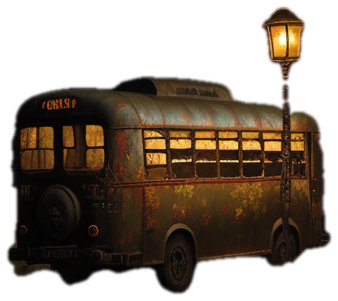
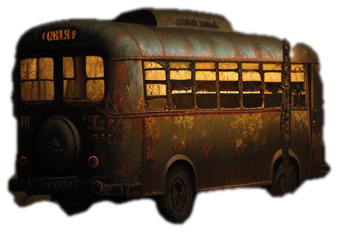
P4-17: town view — painted buildings you hover and click, DD hamlet style
Each hub service is a cut-out painting placed in data/town.json; hovering outlines and
names it, a click opens its window (Pulpería, Terminal, Iglesia, Cantina, Clínica,
Casa Comunal, Taller). Roster and alforja on the right, bottom bar with colones,
region, difficulty and the start button. Closed buildings go grey.

Claude-Session: https://claude.ai/code/session_01Cq1nnfCsSoxUJverGyPeCM

diff --git a/tools/sd_cutout.py b/tools/sd_cutout.py
@@ -30,6 +30,8 @@ ROOT = Path(__file__).resolve().parent.parent
 MANIFEST = ROOT / "tools" / "art_manifest.json"
 MODEL = "openmmlab/upernet-convnext-small"
 MARGIN = 6
+## Pixels shaved off and grown back on the mask: removes thin strays (wires, stray lines).
+OPEN = 5
 ## ADE20K labels that are background in a town picture.
 DROP = {
     "sky", "floor", "road", "grass", "earth", "ground", "mountain", "field", "sand", "sidewalk",
@@ -60,13 +62,13 @@ def cut(im, proc, model):
     labels = model.config.id2label
     drop_ids = [i for i, name in labels.items() if any(d == part.strip() for part in name.split(",") for d in DROP)]
     keep = ~np.isin(seg, drop_ids)
+    keep = ndimage.binary_opening(keep, iterations=OPEN)
     # The biggest piece only (stray bits of other houses go), with its holes filled.
     lab, n = ndimage.label(keep)
     if n > 0:
         sizes = ndimage.sum(keep, lab, range(1, n + 1))
         keep = lab == (int(np.argmax(sizes)) + 1)
     keep = ndimage.binary_fill_holes(keep)
-    keep = ndimage.binary_opening(keep, iterations=2)
     mask = Image.fromarray((keep * 255).astype("uint8")).filter(ImageFilter.GaussianBlur(1.2))
     rgba = im.convert("RGBA")
     rgba.putalpha(mask)

diff --git a/docs/HANDOFF.md b/docs/HANDOFF.md
@@ -17,6 +17,37 @@ Newest entry first. Every agent session ends by adding an entry here (rules: [..
 
 ---
 
+## 2026-11-17 (13) — P4-17 — Town view: clickable buildings, Darkest Dungeon style
+- **Agent / branch:** Claude Code (cloud) / `claude/p3-03-followup-48gkar`
+- **Status after session:** P4-17 `review` (owner to look at the screenshots / play the hub).
+- **Changed:**
+  - `hacienda_hub.tscn`: rebuilt. Painted town (`Town`), top-left banner (week, town event), roster and alforja on the right, bottom bar (colones, region, difficulty, Pura Vida, start, quit), and a building window (`Building`) with one page per building.
+  - `hacienda_hub.gd`: new node paths; `_build_town` / `_layout_town` / `_refresh_town`, `open_building` / `close_building` (Esc closes), `_refresh_who` (hero strip on the per-hero pages).
+    - Iglesia and Cantina are separate pages (`_relief_boxes`).
+    - The Clínica page lists every hero (`_refresh_clinic_page`).
+    - Roster rows are two lines.
+  - `town_building.gd` (new): picture with alpha hit-test, hover outline shader, name plate, grey when closed.
+  - `data/town.json` (new): positions, texts, `closed_by` / `note_by`; checked by `validate_data.py`.
+  - Art: `assets/town/` (7 buildings + `town_bg`), new manifest entries.
+  - `tools/sd_cutout.py` (new): UperNet scene parsing, built into transformers. BiRefNet was dropped because it needs `trust_remote_code`.
+  - Tests updated (`test_ui` "Town view", `test_hub_activities`, `test_quirks`); `tools/screens/town_screenshot.gd` (new); `clinic_screenshot.gd` adapted.
+  - `docs/02` §1 town view; `AGENTS.md` UI note.
+- **Verified:**
+  - `validate_data.py`: 0 errors.
+  - Smoke test and all 19 tests: 0 failures (`test_ui` 3 runs in a row).
+  - Screenshots: town, hover, and the 7 windows.
+- **Not verified / risks:**
+  - Not played by hand in a window.
+  - The art is SD output: the terminal bus lost its lamppost in the cutout, and the Taller keeps a dark edge on its right.
+  - Feria Nocturna, Guardabosques and Mejoras have no building (not built yet).
+  - Other `tools/screens/*` hub tools (relief, skills, tooltip) still run but were made for the old two-column layout.
+- **Decisions needed:**
+  - The EBAIS stays a button on each roster row rather than a building. OK?
+  - The Taller is where heroes are equipped (no upgrades exist yet). OK?
+- **Next step:** owner review of P4-17. Otherwise P5-07 (see entry 11).
+
+---
+
 ## 2026-11-17 (12) — P4-16 — Skill tooltips stay up during a fight
 - **Agent / branch:** Claude Code (cloud) / `claude/p3-03-followup-48gkar`
 - **Status after session:** P4-16 done. P4-17 (town view) claimed, `in-progress`.

diff --git a/AGENTS.md b/AGENTS.md
@@ -83,6 +83,7 @@ Do this before you stop for **any** reason: task finished, context running out, 
   - Hero cards: `scripts/ui/hero_card.gd`.
   - A button with a card on hover: `scripts/ui/card_button.gd` (set `card` to a Callable).
   - Hub dialogs: `_card_dialog` + `_popup_card` in `hacienda_hub.gd`.
+  - The hub is a town view (P4-17): building pictures and positions in `data/town.json`, one `scripts/hacienda/town_building.gd` each. A click calls `open_building(id)`, which shows the page `Building/VBox/Pages/<id>` in `hacienda_hub.tscn`. New town art: an entry in `tools/art_manifest.json` with `"cutout": true`, then `tools/sd_local.py`, then `tools/sd_cutout.py`. Keep SD prompts under CLIP's 77 tokens or the style words get cut.
 - Art: follow [.cursor/rules/stable-diffusion-assets.mdc](.cursor/rules/stable-diffusion-assets.mdc). Never call SD from game code. Every PNG needs a `.metadata.json`.
 - Balance experiments: `godot --headless --path . -s tools/sim_combat.gd -- --runs 10000 [--chain 3] [--set path=value] [--party id,id,id,id] [--level N --ranks R --gear] [--log-long N]` plays the real combat controller headless (doc 10 "Combat sim"). Rerun it after changing combat numbers. `tools/playtest_campaign.gd -- [--campaigns 3] [--weeks 8] [--route full|direct] [--set path=value] [--party id,id,id,id]` plays whole campaigns (hub + expeditions) through the real expedition screen with a careful-player bot that also spends like a player: provisions, EBAIS, Iglesia, skill ranks, equipment (doc 09 §5–6). The balance pass (P5-02a–f) compares every change with the baselines in `docs/playtests/`. Both share the hero policy in `tools/sim_policy.gd`.
 - The Godot path in `.cursor/rules/godot-runtime.mdc` is the owner's Windows machine. Cloud containers usually have no Godot.
